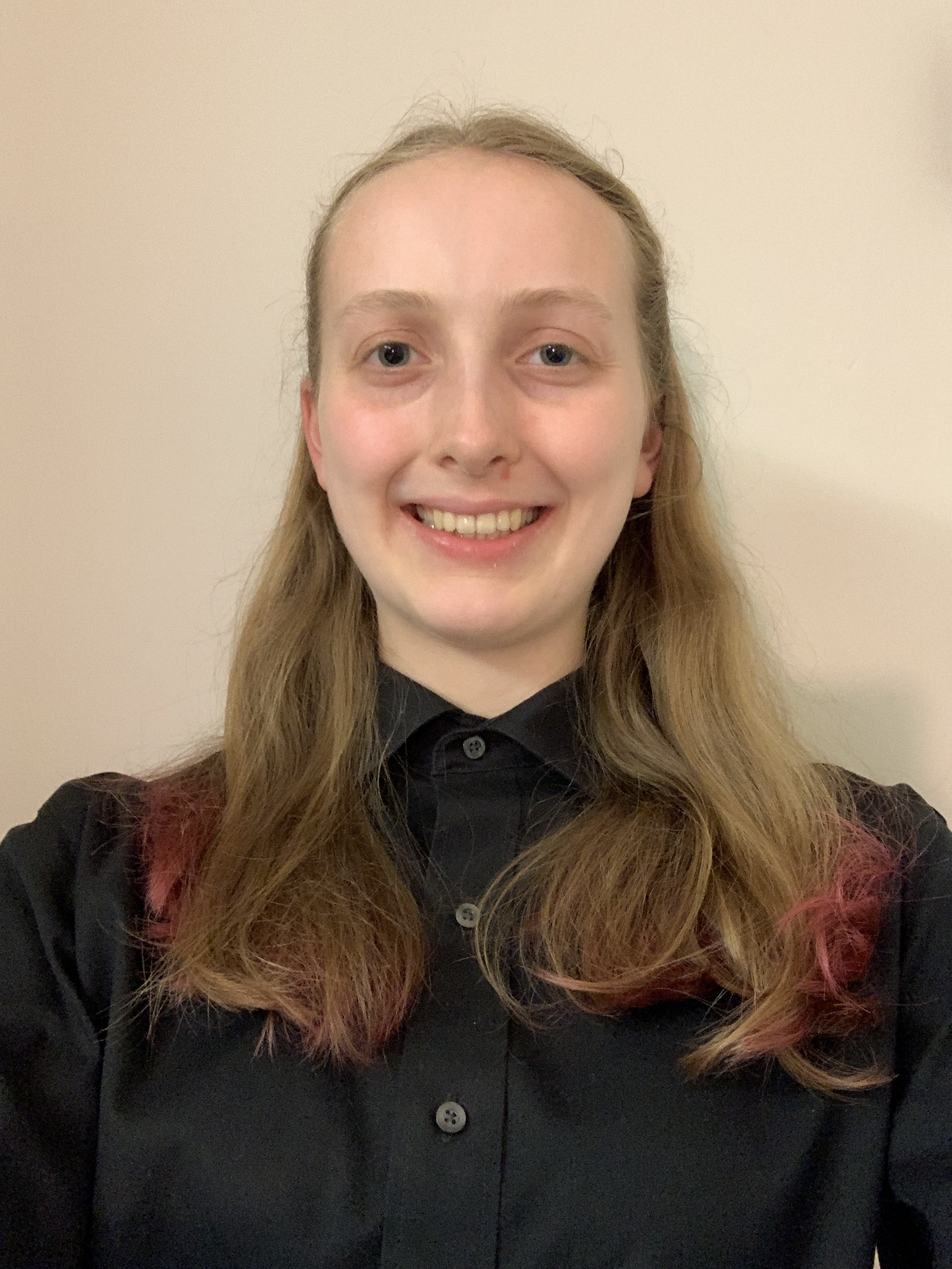
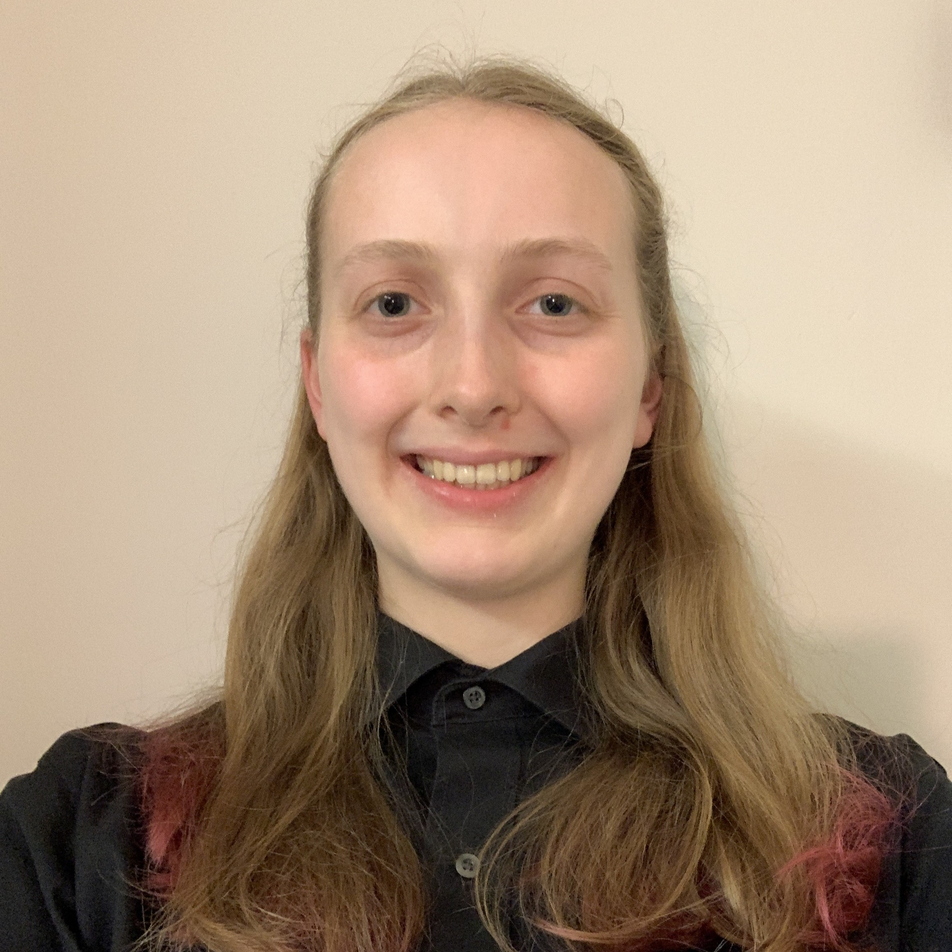
Exec pictures are no longer wonky

diff --git a/index.html b/index.html
@@ -24,7 +24,7 @@ stylesheets : [index]
   local STEM community. Our primary goal is to provide a learning environment
   for students interested in robotics, regardless of prior experience.
   We focus on teaching our members technical skills such as CAD modeling,
-  circuit design, programming, and manufacturing.  Currently we attend the MATE ROV competition and an assortment of National Robotics
+  circuit design, programming, and manufacturing. Currently we attend the MATE ROV competition and an assortment of National Robotics
   Challenges.</p>
   <img style="width: 100vw;" src="res/full_team/team_full_2021_2022.jpg"/>
   <p class="hd">Executive Board</p>

diff --git a/_posts/2022-7-5-Recap21-22.html b/_posts/2022-7-5-Recap21-22.html
@@ -3,7 +3,7 @@ layout      : post
 title       : "2021-2022 Year Recap"
 categories  : [blog]
 stylesheets : [blog]
-subhead     : 2021-2022 Season Recap and What's to Come
+subhead     : 2021-2022 Season Recap
 summary     : A recap of our 2021-2022 year, and what's to come next year.
 imgurl      : /res/full_team/team_full_2021_2022.jpg
 author      : Julianna Carreras
